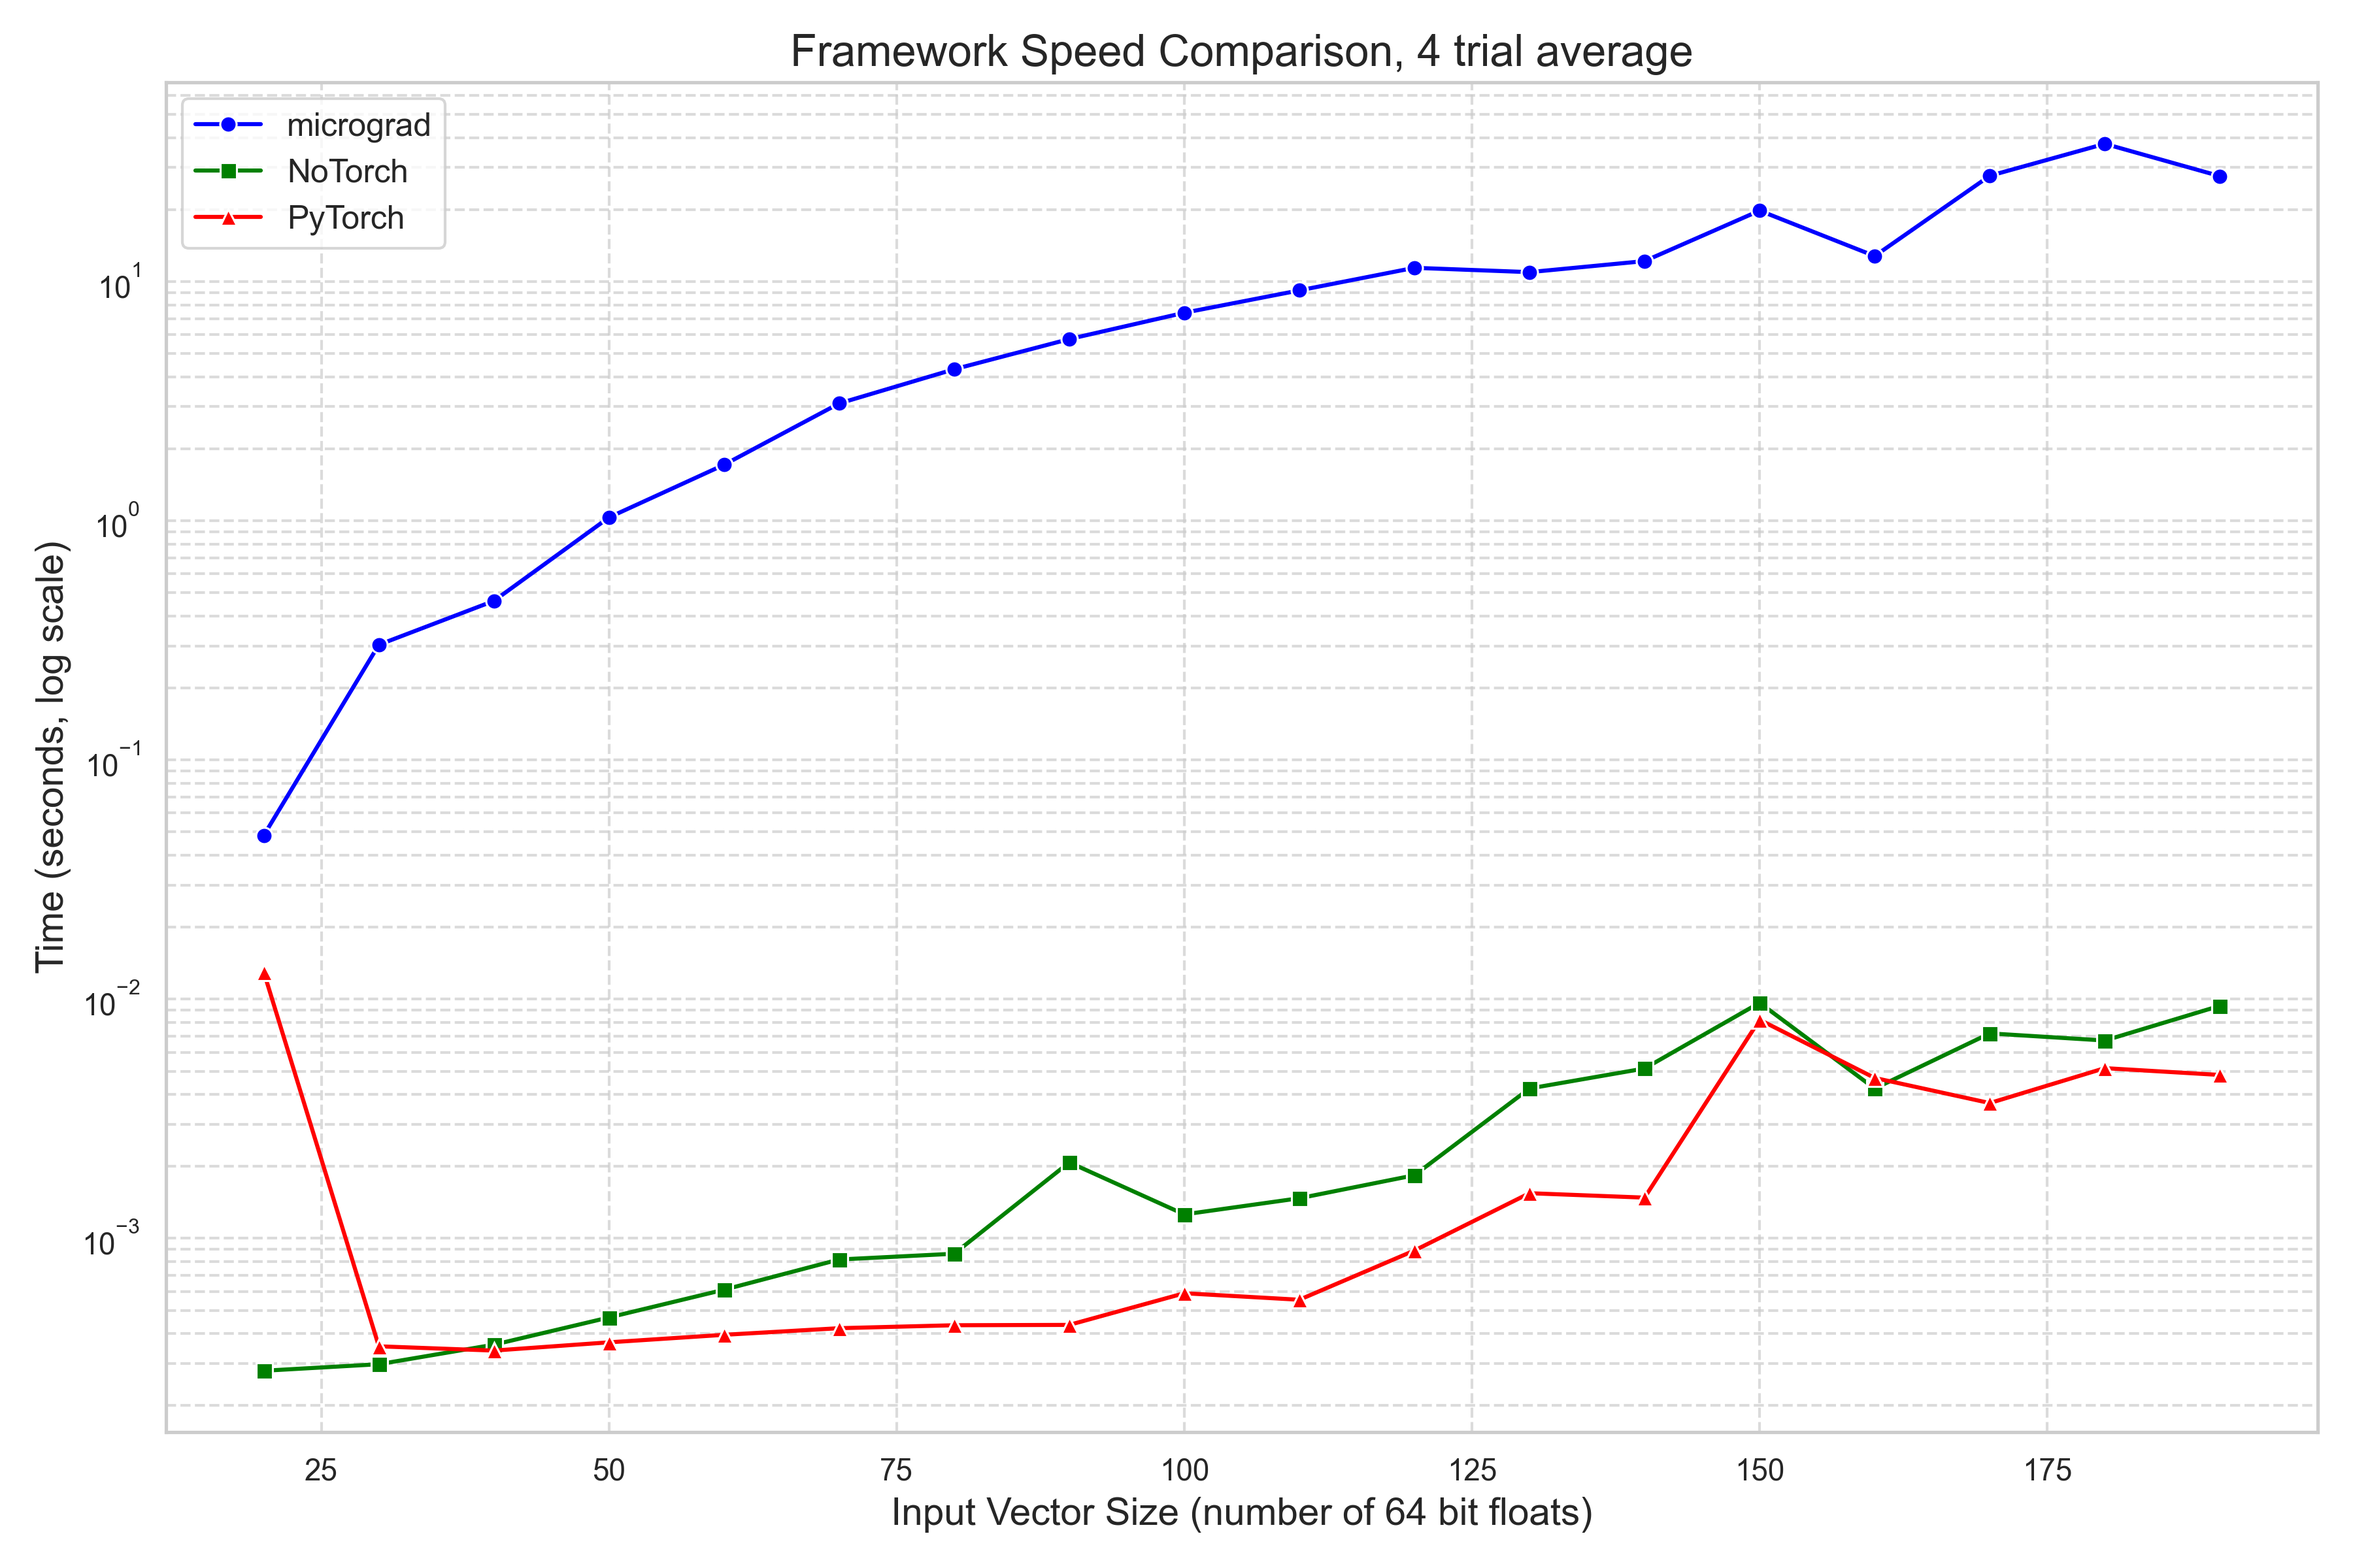
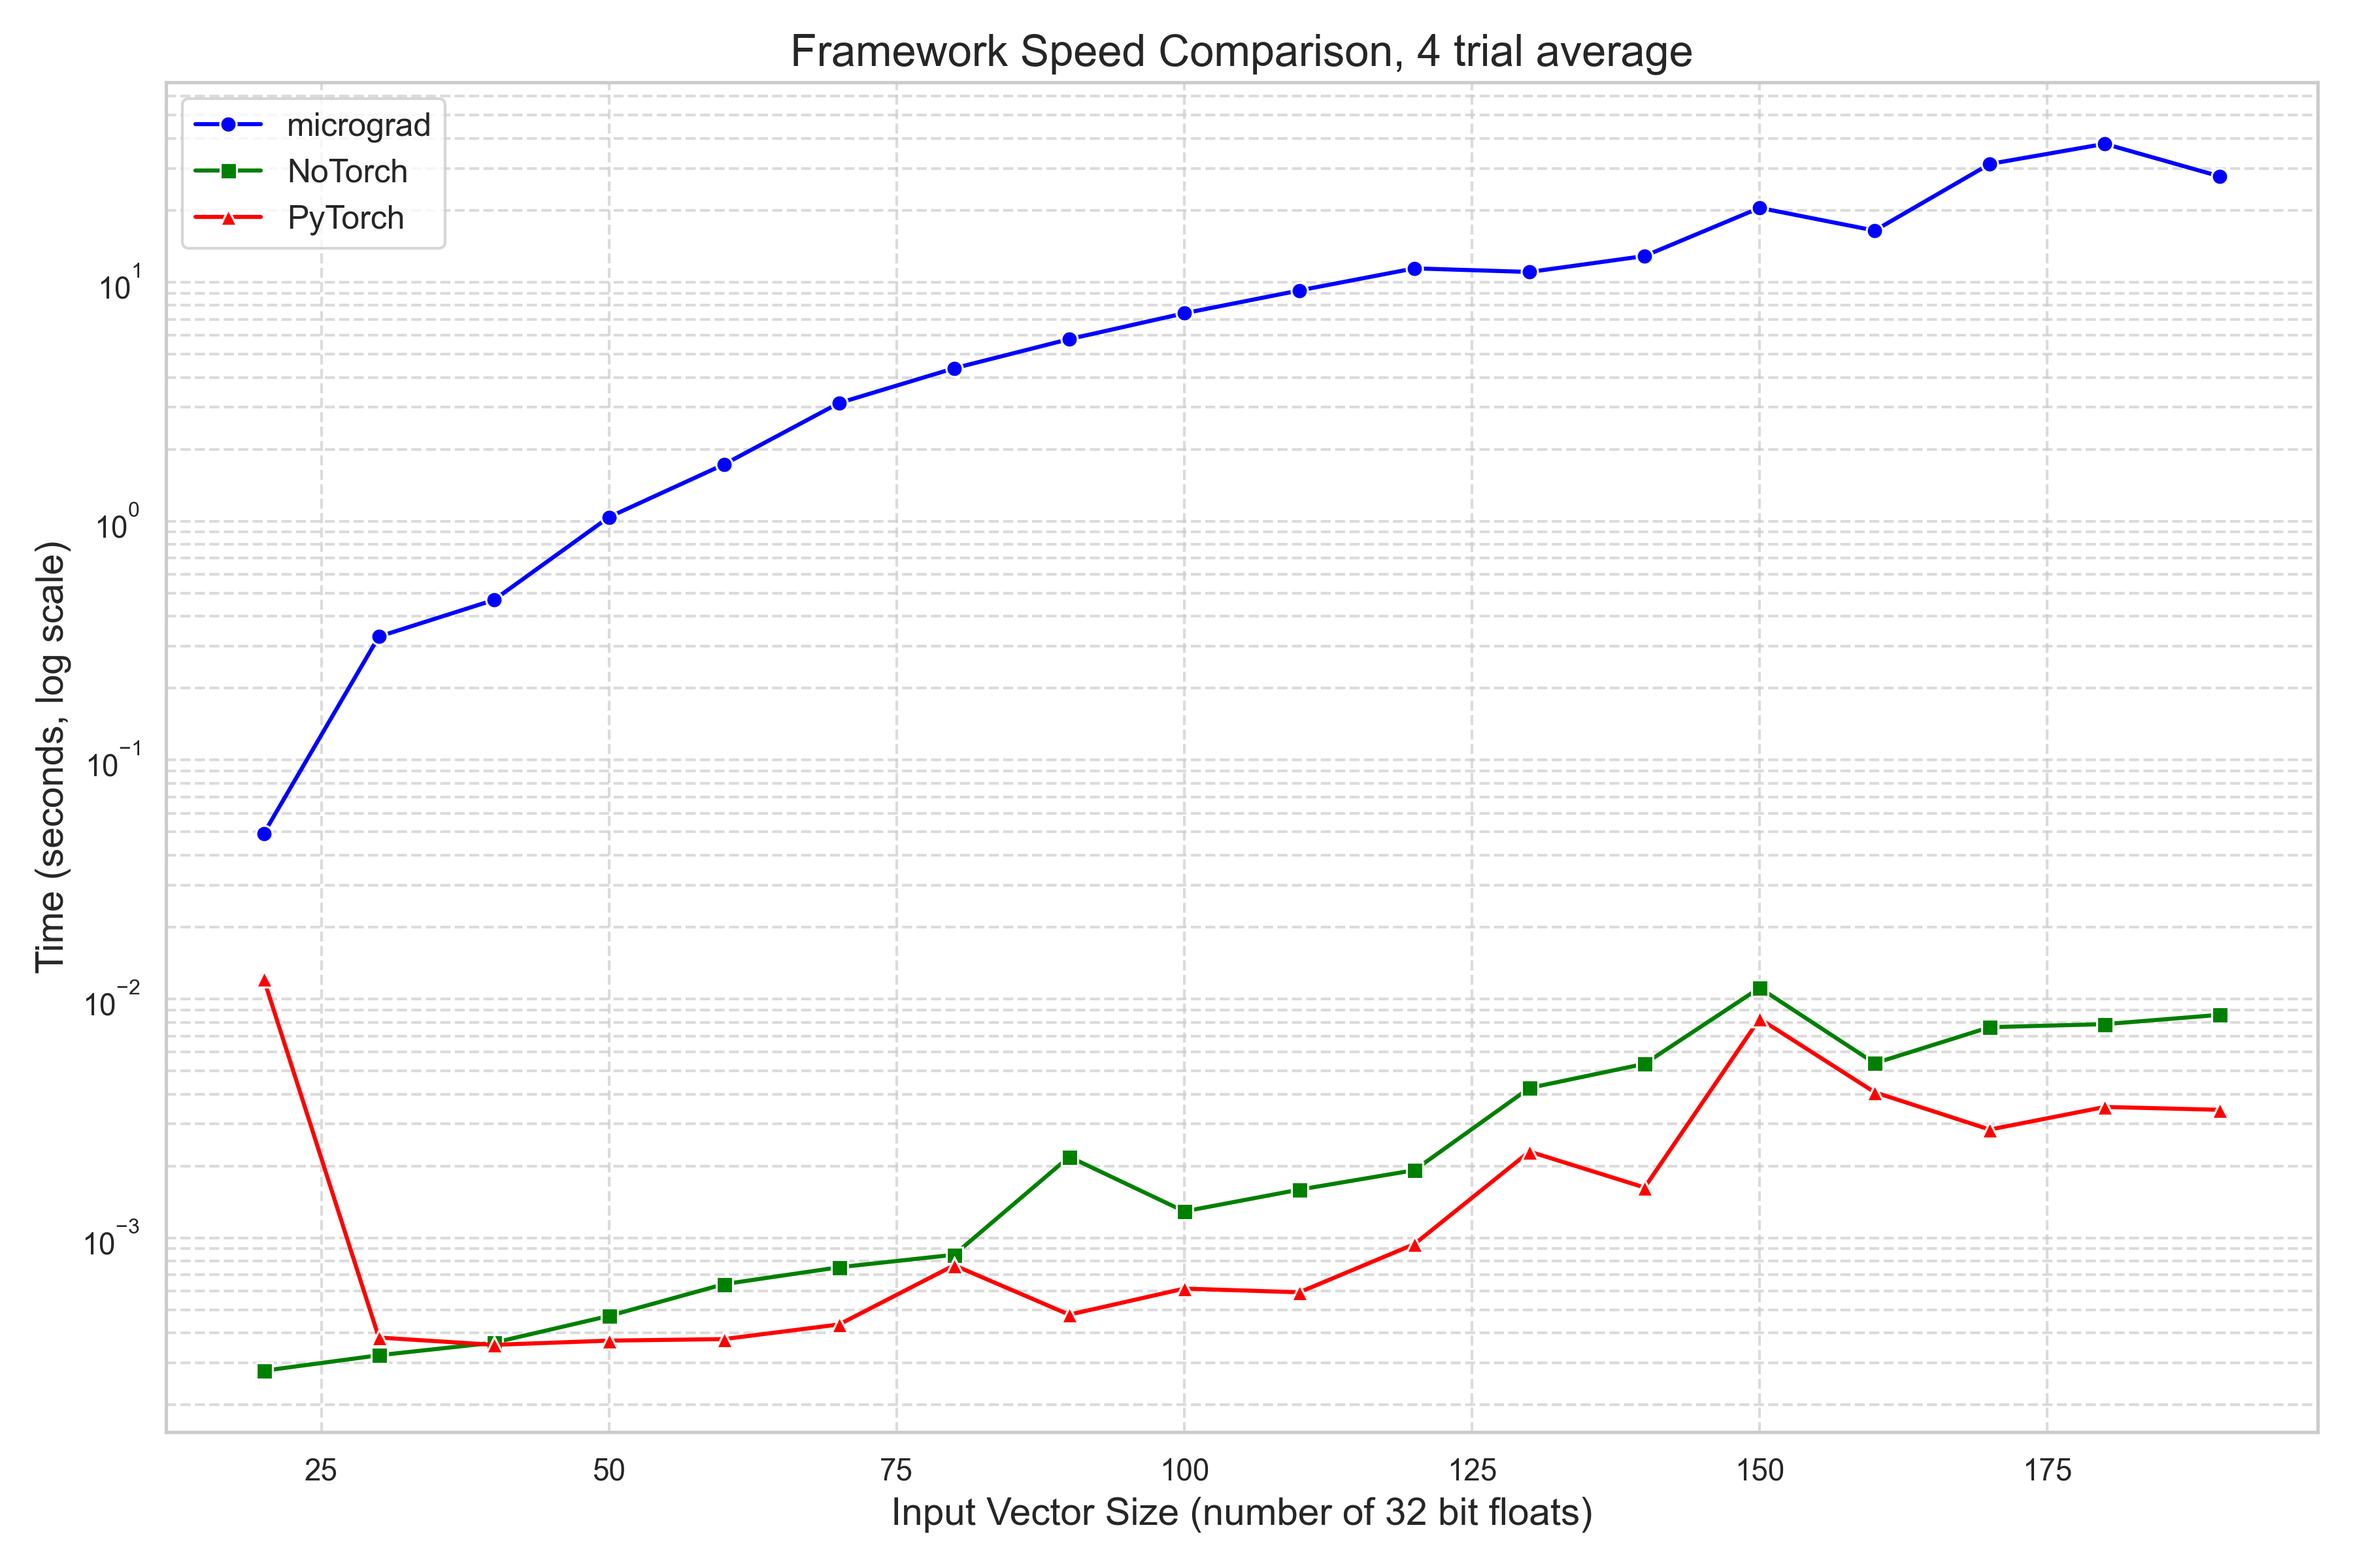
fix graph label

diff --git a/examples/speed_test.py b/examples/speed_test.py
@@ -36,7 +36,7 @@ for insize, hidden in zip(IN_SIZE, HIDDEN):
     )
     pytorch_model = torch.nn.Sequential(*layers)
 
-    x = [np.random.random_sample() for _ in range(insize)]
+    x = [np.float32(np.random.random_sample()) for _ in range(insize)]
 
     """
     Micrograd

diff --git a/examples/visualize_results.py b/examples/visualize_results.py
@@ -50,6 +50,6 @@ plt.legend(fontsize=12)
 plt.tight_layout()
 
 plt.savefig('imgs/results.png', dpi=300)
-print("Plot saved as 'speed_comparison_log_avg.png'")
+print("Plot saved as 'results.png'")
 
 plt.show()
